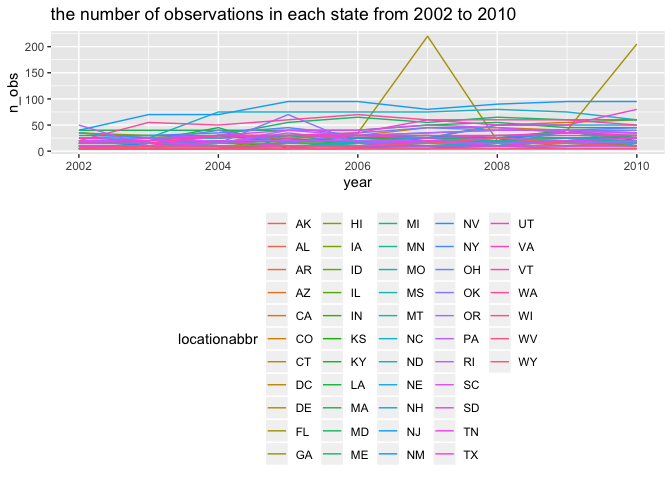
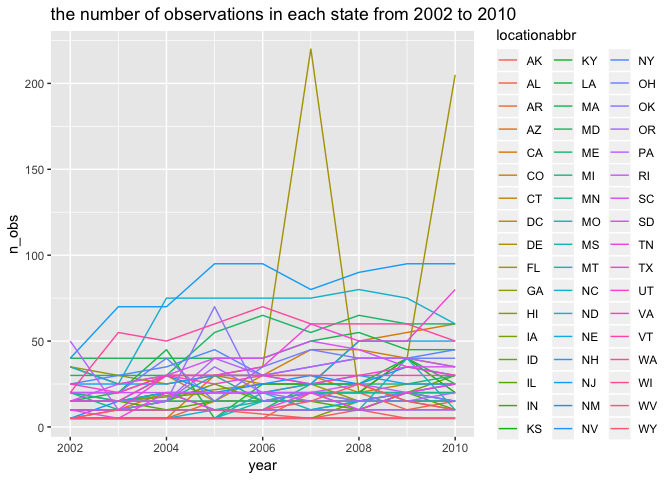
hopefully final changes

diff --git a/p8105_hw3_dz2399.md b/p8105_hw3_dz2399.md
@@ -56,10 +56,10 @@ df_brfss %>%
   ggplot(aes(x=year, y=n_obs, color = locationabbr))+
   geom_line()+
   ggtitle('the number of observations in each state from 2002 to 2010')+
-  theme(legend.position = "bottom")
+  theme(legend.position = "right")
 ```
 
-![](p8105_hw3_dz2399_files/figure-markdown_github/unnamed-chunk-3-1.png)
+![](p8105_hw3_dz2399_files/figure-markdown_github/unnamed-chunk-3-1.png) \* The spaghetti plot shows that every state has similar number of observations, except for florida which has the exceptional number of observations in 2007 and 2010 .
 
 #### Make a table showing, for the years 2002, 2006, and 2010, the mean and standard deviation of the proportion of “Excellent” responses across locations in NY State.
 
@@ -95,7 +95,7 @@ df_brfss %>%
 
     ## Warning: Removed 21 rows containing missing values (geom_point).
 
-![](p8105_hw3_dz2399_files/figure-markdown_github/unnamed-chunk-5-1.png)
+![](p8105_hw3_dz2399_files/figure-markdown_github/unnamed-chunk-5-1.png) \* The distribution of state-level average over time seems to be similar over the years, and the mean difference between each response group holds throughout the years.
 
 Problem 2
 ---------
@@ -108,7 +108,7 @@ instacart <- instacart %>%
   janitor::clean_names()
 ```
 
-The dataset has the dimension of 1384617, 15. The order\_id and product\_is is a numeric variable that is the order identifier and the product identifier. The add\_to\_cart\_order is a numeric value that represents the order in which each product was added to cart.
+The dataset has the dimension of 1384617, 15. Except for the regular id variables, add\_to\_cart\_order is a numeric variable that describe the order of that item when putting in shopping cart. order\_dow is a numeric variable that describes a day in a week when placing the order. aisle is character variable of that name of the asile. product\_name is a character variable describing the name of the product.
 
 #### How many aisles are there, and which aisles are the most items ordered from?
 
@@ -150,7 +150,7 @@ aisle_plot$aisle_id_group <- as.numeric(cut(aisle_plot$aisle_id,4))
   ggtitle('The number of items ordered in each aisle.')
 ```
 
-![](p8105_hw3_dz2399_files/figure-markdown_github/unnamed-chunk-8-1.png)
+![](p8105_hw3_dz2399_files/figure-markdown_github/unnamed-chunk-8-1.png) The most popular items' product id are 24, 83, 123.
 
 #### Make a table showing the most popular item aisles “baking ingredients”, “dog food care”, and “packaged vegetables fruits”
 
@@ -176,25 +176,25 @@ The most popular items in baking ingredients is light brown sugar, purchased 499
 #### Make a table showing the mean hour of the day at which Pink Lady Apples and Coffee Ice Cream are ordered on each day of the week; format this table for human readers (i.e. produce a 2 x 7 table)
 
 ``` r
-instacart %>% 
+ ins <- instacart %>% 
   filter(product_name=='Pink Lady Apples'
          |product_name=='Coffee Ice Cream') %>% 
   select(order_dow,order_hour_of_day,product_name) %>% 
   group_by(product_name, order_dow) %>% 
   summarize(mean_time= mean(order_hour_of_day)) %>% 
-  spread(key=product_name, value=mean_time)
+  spread(key=product_name, value=mean_time) %>% 
+  t() %>% 
+  as.data.frame()
+colnames(ins) <- c('Sunday','Monday','Tuesday','Wednesday','Thursday','Friday','Saturday')
+knitr::kable(ins[-1,])
 ```
 
-    ## # A tibble: 7 x 3
-    ##   order_dow `Coffee Ice Cream` `Pink Lady Apples`
-    ##       <int>              <dbl>              <dbl>
-    ## 1         0               13.8               13.4
-    ## 2         1               14.3               11.4
-    ## 3         2               15.4               11.7
-    ## 4         3               15.3               14.2
-    ## 5         4               15.2               11.6
-    ## 6         5               12.3               12.8
-    ## 7         6               13.8               11.9
+|                  |    Sunday|    Monday|   Tuesday|  Wednesday|  Thursday|    Friday|  Saturday|
+|------------------|---------:|---------:|---------:|----------:|---------:|---------:|---------:|
+| Coffee Ice Cream |  13.77419|  14.31579|  15.38095|   15.31818|  15.21739|  12.26316|  13.83333|
+| Pink Lady Apples |  13.44118|  11.36000|  11.70213|   14.25000|  11.55172|  12.78431|  11.93750|
+
+This table shows that the mean hour of people purchasing coffee ice cream and pink lady apples for each day of the week range approximately from 12pm to 4 pm. Poeple tend to order these items in the afternoon.
 
 Problem 3
 ---------
@@ -204,8 +204,8 @@ data("ny_noaa")
 df_nynoaa <- ny_noaa %>% 
   separate(date,into = c("year","month","day")) %>% 
   janitor::clean_names() %>% 
-  mutate(tmin=as.numeric(tmin),
-         tmax=as.numeric(tmax)) %>% 
+  mutate(tmin=as.numeric(tmin)/10,
+         tmax=as.numeric(tmax)/10) %>% 
   na.omit()
 ```
 
@@ -230,11 +230,13 @@ df_nynoaa %>%
 ``` r
 df_nynoaa %>% 
   filter(month=='01'|month=='07') %>%
-  group_by(month,year) %>% 
+  group_by(month,year,id) %>% 
   summarise(month_mean=mean(tmax)) %>%
-  ggplot(aes(x=factor(month),y=month_mean))+
+  ggplot(aes(x=factor(year),y=month_mean))+
     geom_boxplot()+
-  ggtitle('The average temperature in January and in July in each station across years')
+    facet_grid(.~month)+
+  ggtitle('The mean max temperature in January and July in each station across years')+
+  theme(axis.text.x = element_text(angle = 90, hjust = 1))
 ```
 
 ![](p8105_hw3_dz2399_files/figure-markdown_github/unnamed-chunk-12-1.png)
